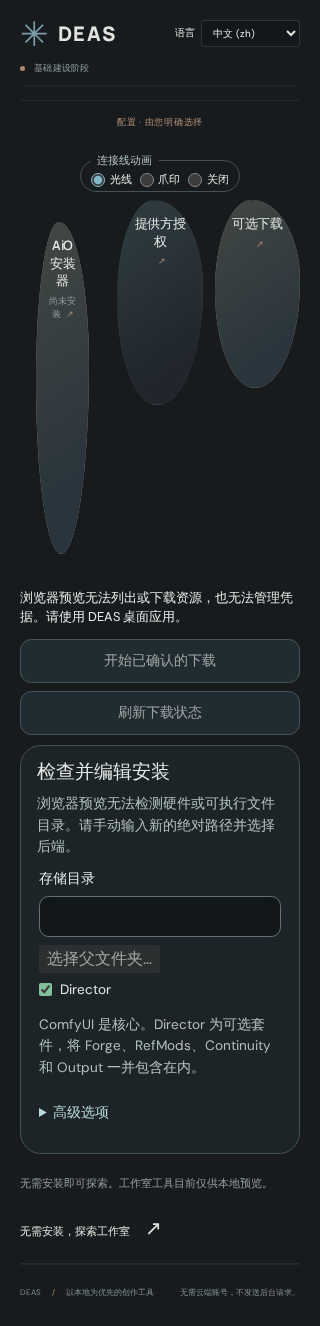
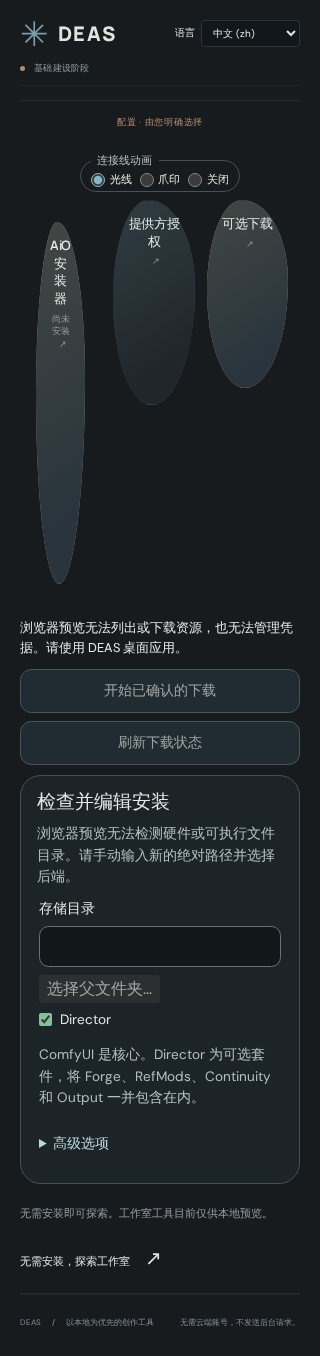
fix: still-image previews, inline plan summary, full-width bubble panels

diff --git a/src/components/setup/AiOSetup.tsx b/src/components/setup/AiOSetup.tsx
@@ -139,19 +139,16 @@ export function AiOSetup({ onConnectExisting, onInstalled }: AiOSetupProps) {
      <button type="button" disabled={!existingUrl.trim()} onClick={()=>{if(validateBackend(existingUrl.trim()))onConnectExisting(existingUrl.trim());else setError('setup.error.backend');}}>{t('setup.inspect')}</button>
     </details>
    </fieldset>{busy&&<p className="aio-help" role="status">{t('setup.busy')}</p>}
+   {nativePlan&&<>
+    <p>{t('setup.request.storagePath')}: <code>{nativePlan.request.storagePath}</code> · {t('setup.request.backend')}: {t(`setup.backend.${nativePlan.request.backend}.label`)}{typeof nativePlan.hardware?.name==='string'&&` · ${nativePlan.hardware.name}`} · {t('setup.request.features')}: {nativePlan.request.features.join(', ')||t('setup.summary.core')}</p>
+    {nativePlan.warnings.length>0&&<ul className="aio-help">{nativePlan.warnings.map((w,i)=><li key={i}>{w}</li>)}</ul>}
+    {nativePlan.unsupportedOptions.length>0&&<><h4>{t('setup.unsupported')}</h4><ul>{nativePlan.unsupportedOptions.map(o=><li key={o}>{o}</li>)}</ul></>}
+    {!nativePlan.canExecute&&<p role="alert">{t('setup.blocked')}</p>}
+    <p className="aio-help">{t('setup.autoConsent')}</p>
+    <button disabled={!planMatches||running||busy||status?.state==='succeeded'||!nativePlan.canExecute||nativePlan.unsupportedOptions.length>0} onClick={()=>void start()}>{t('setup.autoStart')}</button>
+   </>}
   </section>}
   </div>
-  {nativePlan&&<section className="aio-detail" aria-label={t('setup.nativePlan')}><h3>{t('setup.nativePlan')}</h3>
-   <p>{t('setup.request.storagePath')}: <code>{nativePlan.request.storagePath}</code> · {t('setup.request.backend')}: {t(`setup.backend.${nativePlan.request.backend}.label`)}{typeof nativePlan.hardware?.name==='string'&&` · ${nativePlan.hardware.name}`} · {t('setup.request.features')}: {nativePlan.request.features.join(', ')||t('setup.summary.core')}</p>
-   <details><summary>{t('setup.planDetails')}</summary><dl className="aio-request-summary" aria-label={t('setup.exactNativePlan')}>{Object.entries(nativePlan.request).map(([key,value])=><div key={key}><dt>{t(`setup.request.${key}`)}</dt><dd>{typeof value==='object'?JSON.stringify(value):String(value)}</dd></div>)}</dl><details><summary>{t('setup.requestJson')}</summary><pre>{JSON.stringify(nativePlan.request,null,2)}</pre></details>
-   {(nativePlan.hardware||nativePlan.torch)&&<><h4>{t('setup.runtimeProfile')}</h4><dl className="aio-request-summary" aria-label={t('setup.runtimeProfile')}>{Object.entries({...nativePlan.hardware,...nativePlan.torch}).map(([key,value])=><div key={key}><dt>{t(`setup.profile.${key}`)}</dt><dd>{Array.isArray(value)?value.join(', '):String(value??t('setup.profile.none'))}</dd></div>)}</dl><details><summary>{t('setup.profileJson')}</summary><pre>{JSON.stringify({hardware:nativePlan.hardware??null,torch:nativePlan.torch??null},null,2)}</pre></details></>}
-   <details><summary>{t('setup.nativeSteps')}</summary><ol>{nativePlan.steps.map(s=><li key={s.id}><strong>{t(s.labelKey)}</strong><p>{s.detail}</p></li>)}</ol></details></details>
-   {nativePlan.warnings.length>0&&<><h4>{t('setup.warnings')}</h4><ul>{nativePlan.warnings.map((w,i)=><li key={i}>{w}</li>)}</ul></>}
-   {nativePlan.unsupportedOptions.length>0&&<><h4>{t('setup.unsupported')}</h4><ul>{nativePlan.unsupportedOptions.map(o=><li key={o}>{o}</li>)}</ul></>}
-   {!nativePlan.canExecute&&<p role="alert">{t('setup.blocked')}</p>}
-   <p className="aio-help">{t('setup.autoConsent')}</p>
-   <button disabled={!planMatches||running||busy||status?.state==='succeeded'||!nativePlan.canExecute||nativePlan.unsupportedOptions.length>0} onClick={()=>void start()}>{t('setup.autoStart')}</button>
-  </section>}
   {status&&<section className="aio-detail" aria-label={t('setup.installStatus')}><h3>{t('setup.installStatus')}</h3><p role="status">{t(`setup.execution.${status.state}`)}{status.stepId&&` · ${status.stepId}`}</p>{status.state==='succeeded'&&<p>{t('setup.installedNotReady')}</p>}<details><summary>{t('setup.logs')}</summary><pre aria-label={t('setup.logs')}>{status.logs.join('\n')}</pre></details>{status.error&&<p role="alert">{t('setup.technicalError')}: {status.error}</p>}{running&&<button disabled={busy} onClick={()=>void cancel()}>{t('setup.cancel')}</button>}</section>}
   {(native||plan)&&<OwnedBackendPanel installSucceeded={status?.state==='succeeded'} onConnectExisting={onConnectExisting}/>}
   {error&&<p className="aio-error" role="alert">{t(error)}</p>}{technicalError&&<p className="aio-error" role="alert">{t('setup.technicalError')}: {technicalError}</p>}

diff --git a/src/components/setup/AiOSetup.test.tsx b/src/components/setup/AiOSetup.test.tsx
@@ -106,7 +106,7 @@ describe('automatic-first installation — read-only mock IPC fixtures',()=>{
  it('late defaults do not replace a prepared request',async()=>{
   nativeFixture();const late=deferred<typeof defaults>();vi.mocked(invoke).mockImplementation(async(command,args)=>command==='native_install_defaults'?late.promise:plan((args as {request:NativeInstallRequest}).request));
   mount();open();change('Storage directory','/manual');change('Backend','cpu');await screen.findByRole('button',{name:'Start install'});
-  await act(async()=>late.resolve({...defaults,storagePath:'/late',backend:'nvidia'}));expect(screen.getByLabelText('Exact native request').textContent).toContain('/manual');expect((screen.getByLabelText('Backend') as HTMLSelectElement).value).toBe('cpu');
+  await act(async()=>late.resolve({...defaults,storagePath:'/late',backend:'nvidia'}));expect(screen.getByText('/manual')).toBeTruthy();expect((screen.getByLabelText('Backend') as HTMLSelectElement).value).toBe('cpu');
  });
  it('failed defaults leave manual editing available without guessing',async()=>{
   nativeFixture();vi.mocked(invoke).mockRejectedValue('probe unavailable');mount();open();await screen.findByRole('alert');expect((screen.getByLabelText('Backend') as HTMLSelectElement).value).toBe('');expect((screen.getByLabelText('Storage directory') as HTMLInputElement).value).toBe('');change('Storage directory','/manual');change('Backend','cpu');await waitFor(()=>expect(screen.getAllByRole('alert')).toHaveLength(2));expect(screen.queryByRole('button',{name:'Start install'})).toBeNull();
@@ -132,8 +132,8 @@ describe('automatic-first installation — read-only mock IPC fixtures',()=>{
   mount();open();change('Storage directory','/manual/new');change('Backend','cpu');await screen.findByRole('button',{name:'Start install'});click('Start install');await screen.findByText('running fixture');
   await act(async()=>late.resolve({...defaults,storagePath:'/late',backend:'nvidia'}));expect((screen.getByLabelText('Storage directory') as HTMLInputElement).value).toBe('/manual/new');expect((screen.getByLabelText('Backend') as HTMLSelectElement).value).toBe('cpu');expect(screen.getByLabelText('Backend').matches(':disabled')).toBe(true);
  });
- it('shows exact hardware and Torch profile before authorization',async()=>{
-  nativeFixture();vi.mocked(invoke).mockImplementation(async command=>command==='native_install_defaults'?defaults:{...plan(),hardware:{name:'GPU fixture',uuid:'GPU-fixture'},torch:{packages:['torch==fixture'],indexUrl:'https://index.fixture',cuda:'fixture'}});await ready();expect(screen.getByLabelText('Native hardware and exact runtime profile').textContent).toContain('GPU-fixture');expect(screen.getByLabelText('Native hardware and exact runtime profile').textContent).toContain('torch==fixture');
+ it('names the detected device in the one-line plan summary before authorization',async()=>{
+  nativeFixture();vi.mocked(invoke).mockImplementation(async command=>command==='native_install_defaults'?defaults:{...plan(),hardware:{name:'GPU fixture',uuid:'GPU-fixture'},torch:{packages:['torch==fixture'],indexUrl:'https://index.fixture',cuda:'fixture'}});await ready();expect(screen.getByText(/GPU fixture/)).toBeTruthy();
  });
  it('uses a native parent chooser without writing and preserves values on cancellation',async()=>{
   nativeFixture();vi.mocked(invoke).mockImplementation(async(command,args)=>command==='native_install_defaults'?defaults:command==='native_install_plan'?plan((args as {request:NativeInstallRequest}).request):null);mount();open();await screen.findByText('CPU fallback fixture');change('Storage directory','/manual/new');click('Choose parent folder…');await waitFor(()=>expect((screen.getByRole('button',{name:'Choose parent folder…'}) as HTMLButtonElement).disabled).toBe(false));expect((screen.getByLabelText('Storage directory') as HTMLInputElement).value).toBe('/manual/new');expect(invoke).toHaveBeenCalledWith('native_pick_directory',{title:'Choose an existing parent folder'});

diff --git a/src/features/downloads/DownloadPluginPanel.test.tsx b/src/features/downloads/DownloadPluginPanel.test.tsx
@@ -84,11 +84,11 @@ it('restores saved tokens only through an explicit action and displays metadata'
 });
 it('labels unavailable browser transport without IPC',()=>{vi.mocked(isTauri).mockReturnValue(false);mount();click('Optional downloads');expect(screen.getByText(/Browser preview/)).toBeTruthy();expect(invoke).not.toHaveBeenCalled();});
 it('shows catalog categories as cards with previews, opens an entry on click and targets the managed ComfyUI folder',async()=>{
- const entries=[{id:'lora-a',label:'Lora A',providerId:'fixture',scope:'index',locator:'https://example.invalid/a.json',kind:'model',target:'loras',preview:'https://image.civitai.com/a.mp4'},{id:'wf',label:'Workflow W',providerId:'fixture',scope:'index',locator:'https://example.invalid/w.json',kind:'workflow',target:'workflows'}];
+ const entries=[{id:'lora-a',label:'Lora A',providerId:'fixture',scope:'index',locator:'https://example.invalid/a.json',kind:'model',target:'loras',preview:'https://image.civitai.com/a.jpeg'},{id:'wf',label:'Workflow W',providerId:'fixture',scope:'index',locator:'https://example.invalid/w.json',kind:'workflow',target:'workflows'}];
  vi.mocked(invoke).mockImplementation(async(c,a)=>c==='native_download_catalog'?{...catalog,providers:[...catalog.providers,{id:'civitai',kind:'civitai',label:'CivitAI',origin:'https://civitai.com',scopes:['user','model','search'],anonymousNotice:''}],entries}:c==='native_download_browse'?((a as {request:{scope:string}}).request.scope==='search'?{resources:[{id:'civitai:7',label:'Found · v1',kind:'repo',downloadable:false,locator:'7',category:'checkpoints',preview:'https://image.civitai.com/f.jpeg'}],nextCursor:null,warnings:[]}:{resources:[{...resource,preview:'https://image.civitai.com/r.jpeg'}],nextCursor:null,warnings:[]}):c==='native_download_plan'?{id:'p',target:(a as {request:{parentPath:string}}).request.parentPath,resources:[resource],totalKnownBytes:23,unknownSizeCount:0,warnings:[],canExecute:true}:{state:'idle',completed:0,total:0,bytesDownloaded:0,error:null});
  render(<I18nProvider><DownloadPanel installTarget="/env"/></I18nProvider>);click('Optional downloads');
  const tabs=await screen.findAllByRole('tab');expect(tabs.map(t=>t.textContent)).toEqual(['LoRAs','Workflows']);expect(tabs[0].getAttribute('aria-selected')).toBe('true');
- expect(document.querySelector('.download-card video')).toBeTruthy();expect(screen.queryByRole('button',{name:'Workflow W'})).toBeNull();
+ expect(document.querySelector('.download-card img')).toBeTruthy();expect(screen.queryByRole('button',{name:'Workflow W'})).toBeNull();
  fireEvent.click(screen.getByRole('tab',{name:'Workflows'}));expect(screen.getByRole('button',{name:'Workflow W'})).toBeTruthy();expect(invoke).not.toHaveBeenCalledWith('native_download_browse',expect.anything());
  fireEvent.click(screen.getByRole('button',{name:'Workflow W'}));await screen.findByLabelText('Remote file');
  expect(invoke).toHaveBeenLastCalledWith('native_download_browse',{request:{providerId:'fixture',scope:'index',locator:'https://example.invalid/w.json',authenticated:false}});

diff --git a/src/features/downloads/DownloadPluginPanel.tsx b/src/features/downloads/DownloadPluginPanel.tsx
@@ -53,10 +53,10 @@ export function AuthPanel({onChange}:AuthPanelProps={}) {
  </section>;
 }
 
-/** Catalog previews are plain HTTPS media; CSP restricts them to known image hosts. */
+/** Catalog previews are plain HTTPS stills; CSP restricts them to civitai hosts. */
 function Preview({src,alt}:{src?:string;alt:string}) {
  if(!src)return <span className="download-preview is-empty" aria-hidden="true"/>;
- return /\.(mp4|webm)(\?|$)/i.test(src)?<video className="download-preview" src={src} muted loop autoPlay playsInline aria-label={alt}/>:<img className="download-preview" src={src} alt={alt} loading="lazy"/>;
+ return <img className="download-preview" src={src} alt={alt} loading="lazy"/>;
 }
 // ComfyUI model folder order; unknown catalog targets follow alphabetically.
 const categoryOrder=['checkpoints','diffusion_models','loras','vae','text_encoders','clip_vision','controlnet','upscale_models','embeddings','workflows'];

diff --git a/src/components/setup/setup.css b/src/components/setup/setup.css
@@ -68,7 +68,7 @@
 .aio-advanced { display: grid; gap: .5rem; }
 .aio-advanced summary { cursor: pointer; color: #b9d9e0; font-size: .85rem; }
 /* Installer, credentials and downloads bubbles share one row; opened panels span below it. */
-.aio-bubble-row { display: grid; grid-template-columns: repeat(3, minmax(0, 144px)); gap: .75rem; align-items: start; }
+.aio-bubble-row { display: grid; grid-template-columns: repeat(3, minmax(0, 144px)) minmax(0, 1fr); gap: .75rem; align-items: start; }
 .aio-bubble-row > .neural-graph-container { grid-row: 1; grid-column: 1; min-width: 0; }
 .aio-bubble-row .download-module { display: contents; }
 .aio-bubble-row [data-node="provider-auth"] { grid-row: 1; grid-column: 2; }

diff --git a/tools/verify_downloads.py b/tools/verify_downloads.py
@@ -6,7 +6,7 @@ from playwright.sync_api import sync_playwright
 root=Path(__file__).resolve().parents[1]
 url=sys.argv[1] if len(sys.argv)>1 else 'http://127.0.0.1:1420'
 results=[]
-fixture=r"""window.isTauri=true;window.__DEAS_CALLS__=[];window.__TAURI_INTERNALS__={invoke:async(c,a)=>{window.__DEAS_CALLS__.push(c);if(c==='native_install_defaults')return {storagePath:'/executable-folder/deas-environment',backend:'cpu',hardware:null,warnings:[]};if(c==='native_install_plan')return {id:'fixture-plan',request:a.request,steps:[],warnings:[],unsupportedOptions:[],canExecute:true};if(c==='native_media_list')return {path:'/fixture',parent:null,entries:[],truncated:false};if(c==='native_download_catalog'||c==='native_download_import_catalog')return {version:1,providers:[{id:'fixture',kind:'http',label:'Fixture HTTPS provider',origin:'https://example.invalid',scopes:['index'],anonymousNotice:'Fixture only; no live provider contacted.'},{id:'civitai',kind:'civitai',label:'CivitAI',origin:'https://civitai.com',scopes:['user','model','search'],anonymousNotice:'Fixture CivitAI.'}],entries:[{id:'fixture-lora',label:'Fixture LoRA',providerId:'fixture',scope:'index',locator:'https://example.invalid/a.json',kind:'model',target:'loras',preview:'https://image.civitai.com/fixture.jpeg'},{id:'fixture-workflow',label:'Fixture workflow',providerId:'fixture',scope:'index',locator:'https://example.invalid/w.json',kind:'workflow',target:'workflows'}]};if(c==='native_download_browse')return a.request.scope==='search'?{resources:[{id:'civitai:1',label:'Found model · v1',kind:'repo',downloadable:false,locator:'1',category:'loras',preview:'https://image.civitai.com/found.jpeg'}],nextCursor:null,warnings:[]}:{resources:[{id:'fixture-file',label:'Fixture data file',kind:'file',url:'https://example.invalid/a.json',downloadable:true,size:23,preview:'https://image.civitai.com/file.mp4'}],nextCursor:null,warnings:[]};if(c==='native_pick_directory')return '/scratch-fixture';if(c==='native_download_plan')return {id:'fixture-plan',target:'/scratch-fixture/new-files',resources:a.request.resources,totalKnownBytes:23,unknownSizeCount:0,warnings:[],canExecute:true};if(c==='native_download_start'||c==='native_download_status')return {state:'succeeded',completed:1,total:1,bytesDownloaded:23,error:null};if(c==='native_auth_status')return [{providerId:'huggingface',configured:false,persisted:false}];throw Error('Unexpected fixture command');}};"""
+fixture=r"""window.isTauri=true;window.__DEAS_CALLS__=[];window.__TAURI_INTERNALS__={invoke:async(c,a)=>{window.__DEAS_CALLS__.push(c);if(c==='native_install_defaults')return {storagePath:'/executable-folder/deas-environment',backend:'cpu',hardware:null,warnings:[]};if(c==='native_install_plan')return {id:'fixture-plan',request:a.request,steps:[],warnings:[],unsupportedOptions:[],canExecute:true};if(c==='native_media_list')return {path:'/fixture',parent:null,entries:[],truncated:false};if(c==='native_download_catalog'||c==='native_download_import_catalog')return {version:1,providers:[{id:'fixture',kind:'http',label:'Fixture HTTPS provider',origin:'https://example.invalid',scopes:['index'],anonymousNotice:'Fixture only; no live provider contacted.'},{id:'civitai',kind:'civitai',label:'CivitAI',origin:'https://civitai.com',scopes:['user','model','search'],anonymousNotice:'Fixture CivitAI.'}],entries:[{id:'fixture-lora',label:'Fixture LoRA',providerId:'fixture',scope:'index',locator:'https://example.invalid/a.json',kind:'model',target:'loras',preview:'https://image.civitai.com/fixture.jpeg'},{id:'fixture-workflow',label:'Fixture workflow',providerId:'fixture',scope:'index',locator:'https://example.invalid/w.json',kind:'workflow',target:'workflows'}]};if(c==='native_download_browse')return a.request.scope==='search'?{resources:[{id:'civitai:1',label:'Found model · v1',kind:'repo',downloadable:false,locator:'1',category:'loras',preview:'https://image.civitai.com/found.jpeg'}],nextCursor:null,warnings:[]}:{resources:[{id:'fixture-file',label:'Fixture data file',kind:'file',url:'https://example.invalid/a.json',downloadable:true,size:23,preview:'https://image.civitai.com/file.jpeg'}],nextCursor:null,warnings:[]};if(c==='native_pick_directory')return '/scratch-fixture';if(c==='native_download_plan')return {id:'fixture-plan',target:'/scratch-fixture/new-files',resources:a.request.resources,totalKnownBytes:23,unknownSizeCount:0,warnings:[],canExecute:true};if(c==='native_download_start'||c==='native_download_status')return {state:'succeeded',completed:1,total:1,bytesDownloaded:23,error:null};if(c==='native_auth_status')return [{providerId:'huggingface',configured:false,persisted:false}];throw Error('Unexpected fixture command');}};"""
 with sync_playwright() as p:
  browser=p.chromium.launch(headless=True)
  for width in (1440,1024,768,390,320):
@@ -29,7 +29,7 @@ with sync_playwright() as p:
     page.get_by_role('button',name='Select repository: Found model · v1',exact=True).wait_for()
     page.get_by_role('button',name='Fixture LoRA',exact=True).click()
     page.get_by_label('Fixture data file',exact=True).check()
-    assert page.locator('.download-resource video.download-preview').count()==1
+    assert page.locator('.download-resource img.download-preview').count()==1
     assert page.get_by_text('/executable-folder/deas-environment/ComfyUI/models/loras',exact=True).count()==1
     page.get_by_role('button',name='Choose existing parent folder',exact=True).click()
     page.get_by_label('New subfolder',exact=True).fill('new-files')

diff --git a/src-tauri/src/downloads_tests.rs b/src-tauri/src/downloads_tests.rs
@@ -146,7 +146,7 @@ fn strict_catalog_and_extension() {
             e.target.as_str(),
             "checkpoints" | "diffusion_models" | "loras" | "workflows"
         )));
-    assert!(bundled.iter().filter(|e| e.preview.is_some()).count() >= 20);
+    assert!(bundled.iter().filter(|e| e.preview.is_some()).count() >= 10);
     for field in ["command='sh'", "token='secret'", "hook='evil'"] {
         assert!(Catalog::parse(&format!("version=1\nproviders=[]\n{field}")).is_err());
     }
@@ -489,7 +489,7 @@ async fn official_adapter_shapes_use_real_fixture_transport() {
             "civitai",
             "search",
             "dark lora",
-            serde_json::json!({"items":[{"id":12,"name":"Dark","type":"LORA","modelVersions":[{"id":34,"name":"v1","images":[{"url":"https://image.civitai.com/x/1.jpeg"}],"files":[]}]}],"metadata":{}}),
+            serde_json::json!({"items":[{"id":12,"name":"Dark","type":"LORA","modelVersions":[{"id":34,"name":"v1","images":[{"type":"video","url":"https://image.civitai.com/x/original=true/0.mp4"},{"type":"image","url":"https://image.civitai.com/x/original=true/1.jpeg"}],"files":[]}]}],"metadata":{}}),
             "/api/v1/models?query=dark+lora&limit=20&sort=Most+Downloaded",
             false,
         ),
@@ -517,7 +517,7 @@ async fn official_adapter_shapes_use_real_fixture_transport() {
             assert_eq!(page.resources[0].category.as_deref(), Some("loras"));
             assert_eq!(
                 page.resources[0].preview.as_deref(),
-                Some("https://image.civitai.com/x/1.jpeg")
+                Some("https://image.civitai.com/x/width=450/1.jpeg")
             );
             assert_eq!(page.resources[0].label, "Dark · v1");
         } else if kind == "civitai" {

diff --git a/src-tauri/src/downloads_providers.rs b/src-tauri/src/downloads_providers.rs
@@ -174,16 +174,20 @@ pub(super) fn civitai_category(model_type: Option<&str>) -> &'static str {
         _ => "other",
     }
 }
-/// First HTTPS image of a model version, if any; bounded and never fetched here.
+/// First still image of a model version as a 450px thumbnail; videos are skipped because
+/// dozens of WebKitGTK media pipelines are unstable. Never fetched natively.
 fn civitai_preview(version: &Value) -> Option<String> {
-    let url = version
-        .get("images")?
-        .as_array()?
-        .first()?
-        .get("url")?
-        .as_str()?;
-    (url.len() <= 2048 && url.starts_with("https://") && !url.bytes().any(|b| b.is_ascii_control()))
-        .then(|| url.to_owned())
+    version.get("images")?.as_array()?.iter().find_map(|image| {
+        let url = image.get("url")?.as_str()?;
+        let still = image.get("type").and_then(Value::as_str) != Some("video")
+            && !url.ends_with(".mp4")
+            && !url.ends_with(".webm");
+        (still
+            && url.len() <= 2048
+            && url.starts_with("https://")
+            && !url.bytes().any(|b| b.is_ascii_control()))
+        .then(|| url.replacen("/original=true/", "/width=450/", 1))
+    })
 }
 pub(super) async fn list(
     p: &Provider,
